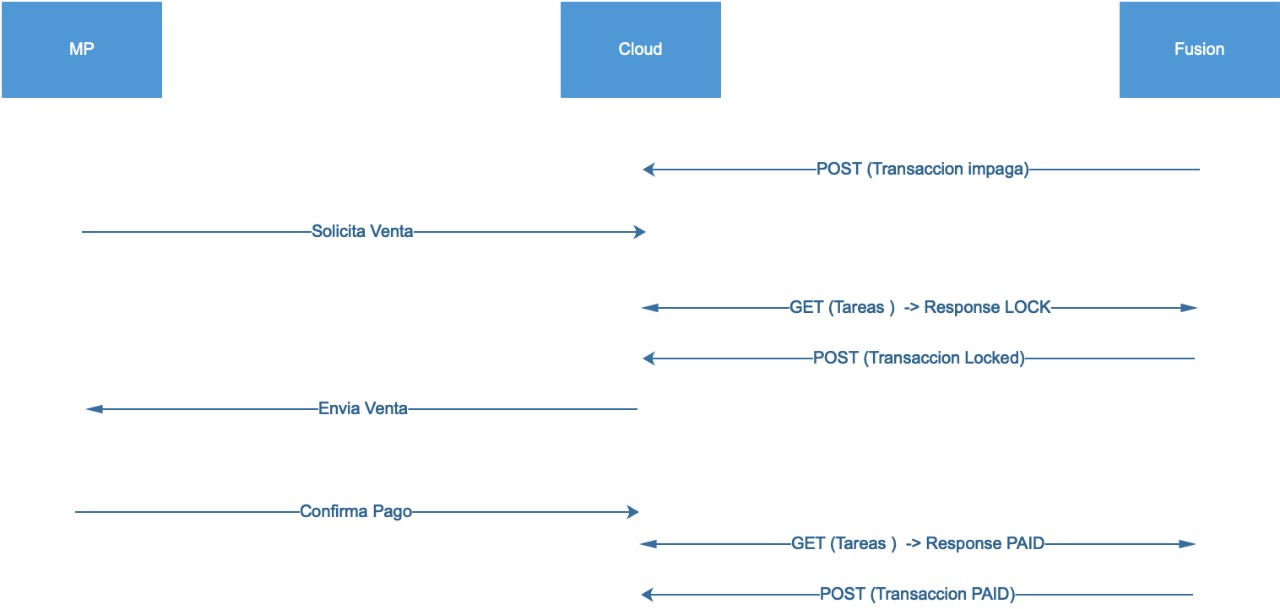
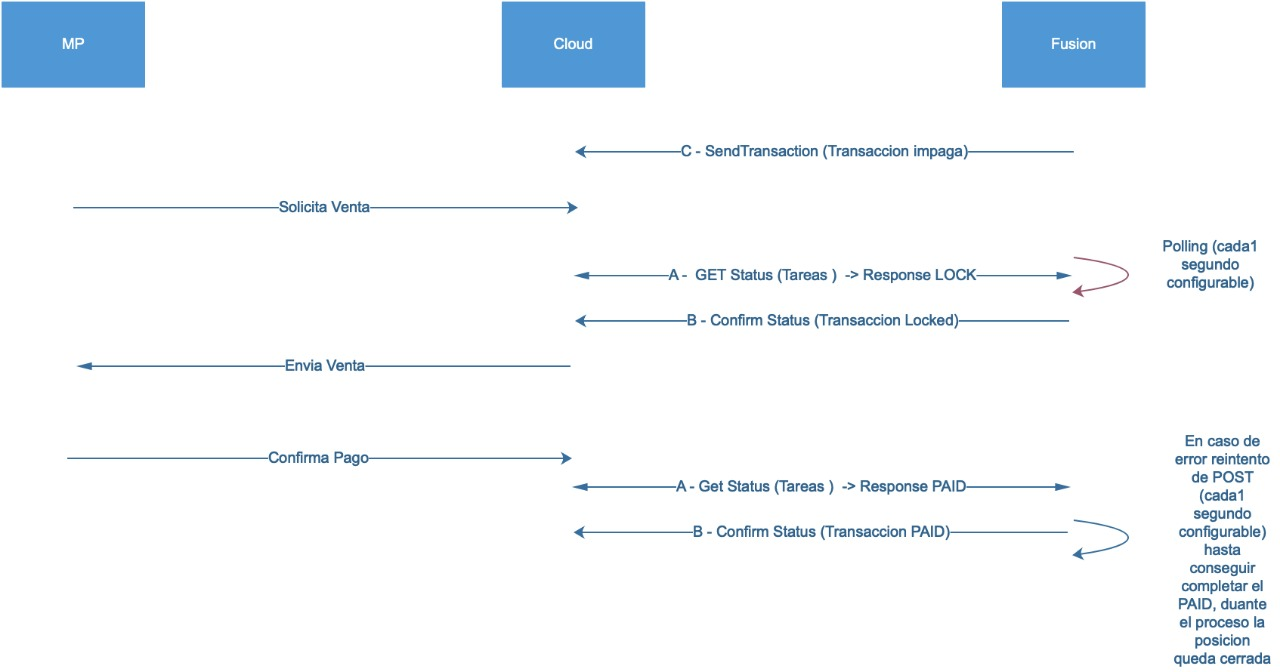
# table of content clean up

diff --git a/AN-MercadoPago_Transaction_Protocol-Spec.md b/AN-MercadoPago_Transaction_Protocol-Spec.md
@@ -15,36 +15,27 @@
 |1.1|10, August 2019|Initial version. Covers POST and GET Transactions|
 
 
+## Contents
 
-## Contents ##
+- [Introduction](#introduction)
 
-- [2 Scope](#2-scope)
-	- [2.1 Scope Details](#21-scope-details)
-	- [2.2 Supported Transactions](#22-supported-transactions)
+- [Scope](#scope)
 
-- [3 Data Security](#3-data-security)
+- [Data Security](#data-security)
 
-- [4 Message Structure](#4-message-structure)
-	- [Request Format](#request-format)
-	- [Response Format](#response-format)
+- [Error Handling](#error-handling)
 
-- [5 Error Handling](#5-error-handling)
+- [Supported Commands](#supported-commands)
+	- [Controllers](#controllers)
+		- [Commands Flow](#commands-flow)
+		- [Get Status (A)](#get-status-(a))
+		- [Confirm Status (B)](#confirm-status-(b))
+		- [Send Transaction (C)](#send-transaction-(c))
 
-- [7 Transaction Request (TREQ) Message Format](#7-transaction-request-treq-message-format)
-
-- [8 Reference Tables](#11-reference-tables)
-	- [8.1 Transaction Codes](#91-transaction-codes)
-	- [8.2 Response Codes](#92-response-codes)	
-	- [8.3 Account Types](#93-account-type)
-	- [8.4 Product Data Structure](#94-product-data-structure)
-	- [8.5 Customer Data](#95-customer-data)
-	- [8.6 Measurement Unit Codes](#96-measurement-unit-codes)
-	- [8.7 Currency Codes](#97-currency-codes)
-	- [8.8 Original Data](#98-original-data)
-- [9 Message Samples](#10-message-samples)
-	- [9.1 Pre Authorization Sample](#101-pre-authorization-samples)
-	- [9.2 Completion Sample](#102-completion-sample)
-
+- [Objects references](#objects-references)
+	- [Order object](#order-object)
+	- [Items object](#items-object)	
+	- [Loyalty object](#loyalty-object)
 
 ## Overview
 
@@ -52,13 +43,13 @@
 
 This specification is intended to document ATIONet’s Mercado Pago Protocol messaging format and related features required for the systems applying for integration with ATIONet. The following sections provide descriptions of the messages themselves, the expected behavior for each supported transaction type and a common ground for the functionality of each relevant item.
 
-## 2 Scope
+## Scope
 
 Version 1.0 of this document covers a particular version of ATIONet’s Host protocol. Although feature’s descriptions are generally not related to a particular version of the protocol, some changes may apply which would be specifically commented and identified on each feature’s
 description paragraph.
 
 
-## 3 Data Security
+## Data Security
 
 To validate the source of transactions and data encryption, the ATIONet Native Transaction Protocol relies on a SSL connection between the Site’s Terminal or Site’s Controller and the ATIONet Host. The SSL connection is established for each request/response pair, using a certificate property of ATIONet, meaning that each request must include a system-type user and password on the Header. The user will be matched against the related ATIONet actor for each message.
 
@@ -66,7 +57,7 @@ Users to be used on the Transaction Protocol messaging will be created by author
 
 At this time there is no provisioning to distribute or update certificates or thumbprints thru a system interface. This information will be provided at request of the Controller’s vendor during the integration project.
 
-## 4 Error Handling
+## Error Handling
 
 Success/failure exits on the Mercado Pago Transaction Protocol will be handled via HTTP status codes.
 
@@ -86,7 +77,7 @@ Failure to process the request will be indicated by an HTTP 400’s range status
 
 Refer to [Response Codes](#112-response-codes) Table in the Reference Tables section for a complete list of supported codes.
 
-## 5 Supported Commands 
+## Supported Commands 
 
 |Code|Name|Description|
 |---|---|---|
@@ -105,8 +96,9 @@ Refer to [Response Codes](#112-response-codes) Table in the Reference Tables sec
 - Authorization: Basic user:password
 
 
-#### Commands flow
+#### Commands Flow
 ![ationetlogo](Content/Images/mercadoPagoFlow.jpeg)
+
 #### Get Status (A)
 Request Body:
 
@@ -145,10 +137,11 @@ If the HTTP response code is different than 200, then the following structure is
 	{“ResponseCode”:”StringValue”,”ResponseMessage”:”StringValue”,”ResponseError”:"StringValue"}
 
 
-Note: Alphanumeric fields, stated as Type “A/N” in record format tables below show the maximum possible length as the Size, although in JSON-formatted strings they will be represented with trailing spaces trimmed.
+Note: If a transaction is confirmed by Fusion as PAY, and then the payment is removed, Fusion will send the transaction again using the command "C".
 
 
-## 7 Order object
+## Objects references
+### Order object
 |Field Name|Type|Condition|Descriptions/Field Value(s)|
 |---|---|---|---|
 |collector_id|Long|Required|Identificador de la cuenta de Mercado Pago a la que se le acreditarán los pagos.|
@@ -158,14 +151,14 @@ Note: Alphanumeric fields, stated as Type “A/N” in record format tables belo
 |items|Array|Required|Lista de los productos, donde cada item es un object con los siguientes campos|
 |loyalty|Object|Required|Datos necesarios para sumar puntos en un determinado programa de fidelización|
 
-## 7.1 Items object
+### Items object
 |Field Name|Type|Condition|Descriptions/Field Value(s)|
 |---|---|---|---|
 |title|String|Required|Nombre del producto.|
 |quantity|Entero|Required|Cantidad de este producto.|
 |unit_price|Decimal|Required|Precio unitario del producto.|
 
-## 7.2 Loyalty object
+### Loyalty object
 |Field Name|Type|Condition|Descriptions/Field Value(s)|
 |---|---|---|---|
 |program|String|Required|Programa de fidelización (serviclub, payback, etc.)|
@@ -186,144 +179,3 @@ Note: Alphanumeric fields, stated as Type “A/N” in record format tables belo
 |shift|String|Required|Número del turno.|
 |affinity_plan|String|Required|Plan de afinidad.|
 
-## 8 Reference Tables
-
-This section brings together the code tables and reference values used in messaging.
-
-
-### 8.2 Response Codes
-|Code|Response Message|Long Response Message|Description|
-|---|---|---|---|
-|**Authorized**||||
-|00000|Authorized|Authorized||
-|**Request Validations**||||
-|10000|Invalid date|Invalid date||
-|10001|Invalid time|Invalid time||
-|10002|Invalid seq num|Invalid sequence number||
-|10003|Invalid acc type|Invalid account type||
-|10004|Invalid app type|Invalid application type||
-|10005|Invalid proc mode|Invalid processing mode||
-|10006|Invalid mess format|Invalid message format||
-|10007|Invalid dev type|Invalid device type||
-|10008|Invalid sys model|Invalid system model||
-|10009|Invalid sys ver|Invalid system version||
-|10010|Invalid entry method|Invalid entry method||
-|10011|Invalid unit code|Invalid unit code||
-|10012|Invalid unit code|Invalid datetime||
-|10013|Invalid pri track|Invalid primary track||
-|10014|Invalid prod data|Invalid product data||
-|10015|Prod data req|Product data required||
-|10016|Invalid batch number|Invalid batch number||
-|10017|Invalid respone code|Invalid respone code||
-|10018|Invalid terminal|Invalid terminal||
-|10019|Invalid old PIN|Invalid old PIN||
-|10020|Invalid new PIN|Invalid new PIN||
-|10021|Invalid orig data|Invalid original data||
-	
-### 8.3 Account Type
-
-|Type|Description|
-|--- |--- |
-|“1”|ATIONet native track|	
-
-### 8.4 Product Data Structure
-
-|Field Name|Size|Type|Condition|Descriptions/Field Value(s)|
-|--- |--- |--- |--- |--- |
-|ServiceCode|1|string|Required||
-|ProductCode|4|string|Required|“0”-“9999”|
-|ProductUnitPrice|Var|decimal|Optional|xxx.xxx|
-|ProductNetAmount|Var|decimal|Optional|xxxxxxx.xx|
-|ProductTaxes|Var|Dictionary|Optional|<”[Tax Description]”, [Tax Value]>|
-|ProductAmount|Var|decimal|Optional|xxxxxxx.xx|
-|ProductQuantity|Var|decimal|Optional|xxxxxxx.xx|
-|UnitCode|Var|string|Optional|Refer to Measurement Unit Codes in Reference Tables Section|
-			
-### 8.5 Customer Data
-    
-|Field Name|
-|--- |
-|TruckUnitNumber|
-|TrailerNumber|
-|Odometer|
-|EngineHours|
-|DriverId|
-|Miscellaneous|
-|DriverLicenseState|
-|DriverLicenseNumber|
-|TripNumber|
-|PurchaseOrderNumber|
-|ClientSupportsReceiptDownloading|
-|TrailerHourMeterReading|
-
-### 8.6 Measurement Unit Codes
-
-|Value|Description|
-|--- |--- |
-|“usgal”|Gallon USA|
-|“ukgal”|Gallon UK|
-|“l”|Litro|
-|“m3”|Metro Cúbico|
-|“kg”|Kilogramo|
-
-
-### 8.7 Currency Codes
- 
-Refer to ISO 4217 Currency Codes standard (<http://en.wikipedia.org/wiki/ISO_4217>)
-
-
-### 8.8 Original Data
-
-|Field Name|
-|--- |
-|TransactionCode|
-|TransactionSequenceNumber|
-|LocalTransactionDate|
-|LocalTransactionTime|
-
-## 9 Message Samples
-
-### 9.1 POST Sample
-
-```json
-{
-    "ProcessingMode": "1",
-    "SystemModel": "",
-    "SystemVersion": "",
-    "TransactionCode": "100",
-    "EntryMethod": "M",
-    "CurrencyCode": "ARS",
-    "UnitCode": "l",
-    "ApplicationType": "FCS",
-    "AccountType": "1",
-    "MessageFormatVersion": "1.3",
-    "DeviceTypeIdentifier": "4",
-    "PumpNumber": "1",
-    "TerminalIdentification": "AN111111",
-    "TransactionSequenceNumber": 1,
-    "LocalTransactionDate": 20190614,
-    "LocalTransactionTime": 121500,
-    "PrimaryTrack": "9532013015986508780=3905=000000",
-    "PrimaryPin": null,
-    "SecondaryTrack": null,
-    "SecondaryPin": null,
-    "ProductCode": "3",
-    "ProductAmount": 20,
-    "ProductQuantity": null,
-    "ProductUnitPrice": null,
-    "OriginalData": {},
-    "ProductNetAmount": null,
-    "ProductTaxes": null,
-    "TransactionNetAmount": null,
-    "TransactionAmount": null,
-    "AuthorizationCode": null,
-    "ServiceCode": null,
-    "BatchNumber": null,
-    "ShiftNumber": null,
-    "TransactionExtendedData": null,
-    "InvoiceNumber": null,
-    "ResponseCode": null,
-    "ResponseText": null,
-    "ReceiptData": null
-}
-```
